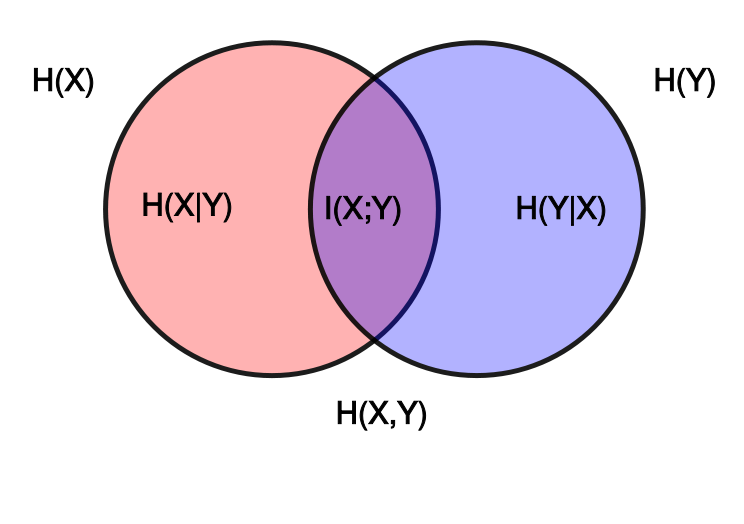
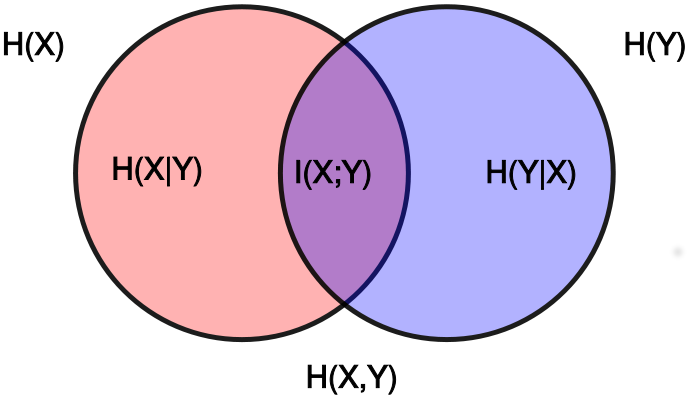
rc1

Changed region(s): [[0.0916, 0.0, 1.0, 0.87], [0.4273, 0.9, 0.5799, 0.99], [0.0, 0.06, 0.1221, 0.18]]

diff --git a/main.tex b/main.tex
@@ -16,6 +16,7 @@
 \usepackage{xcolor}
 \usepackage{multicol}
 \usepackage{bm}
+\usepackage{changepage}
 
 \title[mRMR]{mRMR - features selection method}
 \institute{
@@ -46,7 +47,7 @@ Corso di Laurea in Informatica Magistrale
 \pgfdeclareimage[height=1cm]{logo}{figure/theme/logo}
 \logo{\pgfuseimage{logo}}
 
-%New color
+%New colors
 \definecolor{color1}{RGB}{184,184,228}
 \definecolor{color2}{RGB}{214,214,240}
 \definecolor{glicine}{RGB}{201, 160, 220}
@@ -114,22 +115,32 @@ Corso di Laurea in Informatica Magistrale
 	\frametitle{Mutual Information - Definizione}
 		\nocite{Ding:2003:MRF:937976.938050}
 		\nocite{Peng05featureselection}
-Date due variabili casuali \emph{X} e \emph{Y} con distribuzione di probabilità congiunta $p(x, y)$, la mutua
-informazione è definita come \\~$$I(X; Y ) = H(X) − H(X|Y ) = H(Y ) − H(Y |X)$$\\~\\
-La mutua informazione rappresenta i bit di informazione che una delle variabili fornisce circa l'altra
-\begin{figure}[htb]
-	\vspace{-0.2cm}
-	\includegraphics[width=0.48\textwidth]{figure/mutual.png}
-\end{figure}
+	\begin{itemize}
+		\item La mutua informazione rappresenta i bit di informazione che una delle variabili fornisce riguardo l'altra.
+		\item Date due variabili casuali \emph{X} e \emph{Y}, la mutua informazione è definita come $$I(X; Y ) = H(X) − H(X|Y ) = H(Y ) − H(Y |X)$$
+	\end{itemize}
+	dove le entropie sono calcolate \newline
+	\begin{align*}
+		H(X)&= - \sum_{i \in X}{P(x_i)*log(P(x_i))} \\
+		H(X,Y)&= - \sum_{i \in X}\sum_{j \in Y}{P(x_i,y_j)*log(P(x_i,y_j))}
+	\end{align*}
 \end{frame}
 \begin{frame}
 	\frametitle{Considerazioni}
+	\begin{adjustwidth}{-2.1em}{-2.1em}
 	\begin{itemize}
-		\item $I(X;Y)=0 \Rightarrow$ \emph{X} e \emph{Y} sono variabili indipendenti
-		\item $\pmb{I(X;Y)} = H(X)-H(X|Y)=H(Y)-H(Y|X)= \pmb{I(Y;X)}$
-		\item $I(X;X)=H(X)$
+		\item \textsc{Indipendenza:} $I(X;Y)=0$ \newline
+		\item \textsc{Simmetria:} $I(X;Y) = H(X)-H(X|Y)=H(Y)-H(Y|X)= I(Y;X)$ \newline
+		\item \textsc{Riflessività:} $I(X;X)=H(X)$ \newline
 	\end{itemize}
+	\begin{figure}[htb]
+		\vspace{-0.2cm}
+		\includegraphics[width=.48\textwidth]{figure/mutual.png}
+	\end{figure}
+
+	\end{adjustwidth}
 \end{frame}
+
 \begin{frame}
 	\frametitle{Esempio}
 	Lanciamo 10 monete:
@@ -139,13 +150,13 @@ La mutua informazione rappresenta i bit di informazione che una delle variabili 
 	\end{itemize}
 	Avremo che:
 	\begin{columns}
-		\begin{column}{0.5\textwidth}
+		\begin{column}{0.455\textwidth}
 			\begin{itemize}
 				\item $H(X) = 7$
 				\item $H(Y) = 5$\newline
 			\end{itemize}
 		\end{column}
-		\begin{column}{0.5\textwidth}
+		\begin{column}{0.455\textwidth}
 			\begin{itemize}
 				\item $H(X|Y) = 5$
 				\item $H(Y|X) = 3$\newline
@@ -183,7 +194,7 @@ $$I(X; Y ) = I(Y ; X) = 2 $$
 	\end{itemize}
 	\textbf{Soluzione}
 	\begin{itemize}
-		\item Incorporare la discretizzazione dei dati nella fase di preprocessing
+		\item Discretizzazione dei dati nella fase di preprocessing
 	\end{itemize}
 \end{frame}
 
